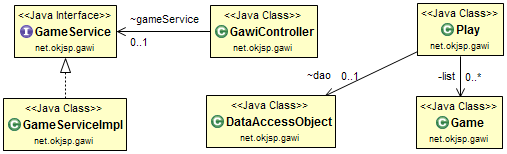
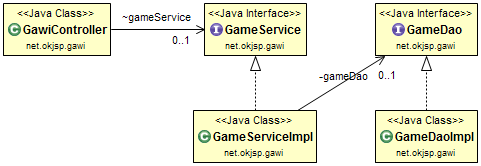
GameDAO

diff --git a/spring/mvc_/src/main/java/net/okjsp/gawi/GameDaoImpl.java b/spring/mvc_/src/main/java/net/okjsp/gawi/GameDaoImpl.java
@@ -1,0 +1,42 @@
+package net.okjsp.gawi;
+
+import java.io.IOException;
+import java.io.InputStream;
+import java.util.Date;
+
+import org.apache.ibatis.io.Resources;
+import org.apache.ibatis.session.SqlSession;
+import org.apache.ibatis.session.SqlSessionFactory;
+import org.apache.ibatis.session.SqlSessionFactoryBuilder;
+import org.springframework.stereotype.Repository;
+
+@Repository
+public class GameDaoImpl implements GameDao {
+	private static SqlSessionFactory sqlSessionFactory;
+	static {
+		String resource = "net/okjsp/gawi/mybatis-config.xml";
+		InputStream inputStream;
+		try {
+			inputStream = Resources.getResourceAsStream(resource);
+			sqlSessionFactory = new SqlSessionFactoryBuilder()
+					.build(inputStream);
+		} catch (IOException e) {
+			e.printStackTrace();
+		}
+	}
+	
+	@Override
+	public int save(int choice, int computerChoice, String judgement) {
+		Date datetime = new Date();
+		Game game = new Game(choice, computerChoice, judgement, datetime);
+		SqlSession session = sqlSessionFactory.openSession();
+		try {
+			GameMapper mapper = session.getMapper(GameMapper.class);
+			mapper.insertGame(game);
+		} finally {
+			session.commit();
+			session.close();
+		}
+		return 0;
+	}
+}

diff --git a/spring/mvc_/src/main/java/net/okjsp/gawi/GameServiceImpl.java b/spring/mvc_/src/main/java/net/okjsp/gawi/GameServiceImpl.java
@@ -1,15 +1,19 @@
 package net.okjsp.gawi;
 
+import org.springframework.beans.factory.annotation.Autowired;
 import org.springframework.stereotype.Service;
 
 @Service
 public class GameServiceImpl implements GameService {
+	@Autowired
+	private GameDao gameDao;
+		
 	public Play play(Game game) {
 		Play play = new Play();
 		
 		game.setComputerChoice(play.getComputerChoice());
 		game.setJudgement(play.judge(game.getChoice(), game.getComputerChoice()));
-		play.save(game.getChoice(), game.getComputerChoice(), game.getJudgement());
+		gameDao.save(game.getChoice(), game.getComputerChoice(), game.getJudgement());
 		return play;
 	}
 }

diff --git a/spring/mvc_/src/main/java/net/okjsp/gawi/GameDao.java b/spring/mvc_/src/main/java/net/okjsp/gawi/GameDao.java
@@ -1,0 +1,7 @@
+package net.okjsp.gawi;
+
+public interface GameDao {
+
+	int save(int choice, int computerChoice, String judgement);
+
+}
